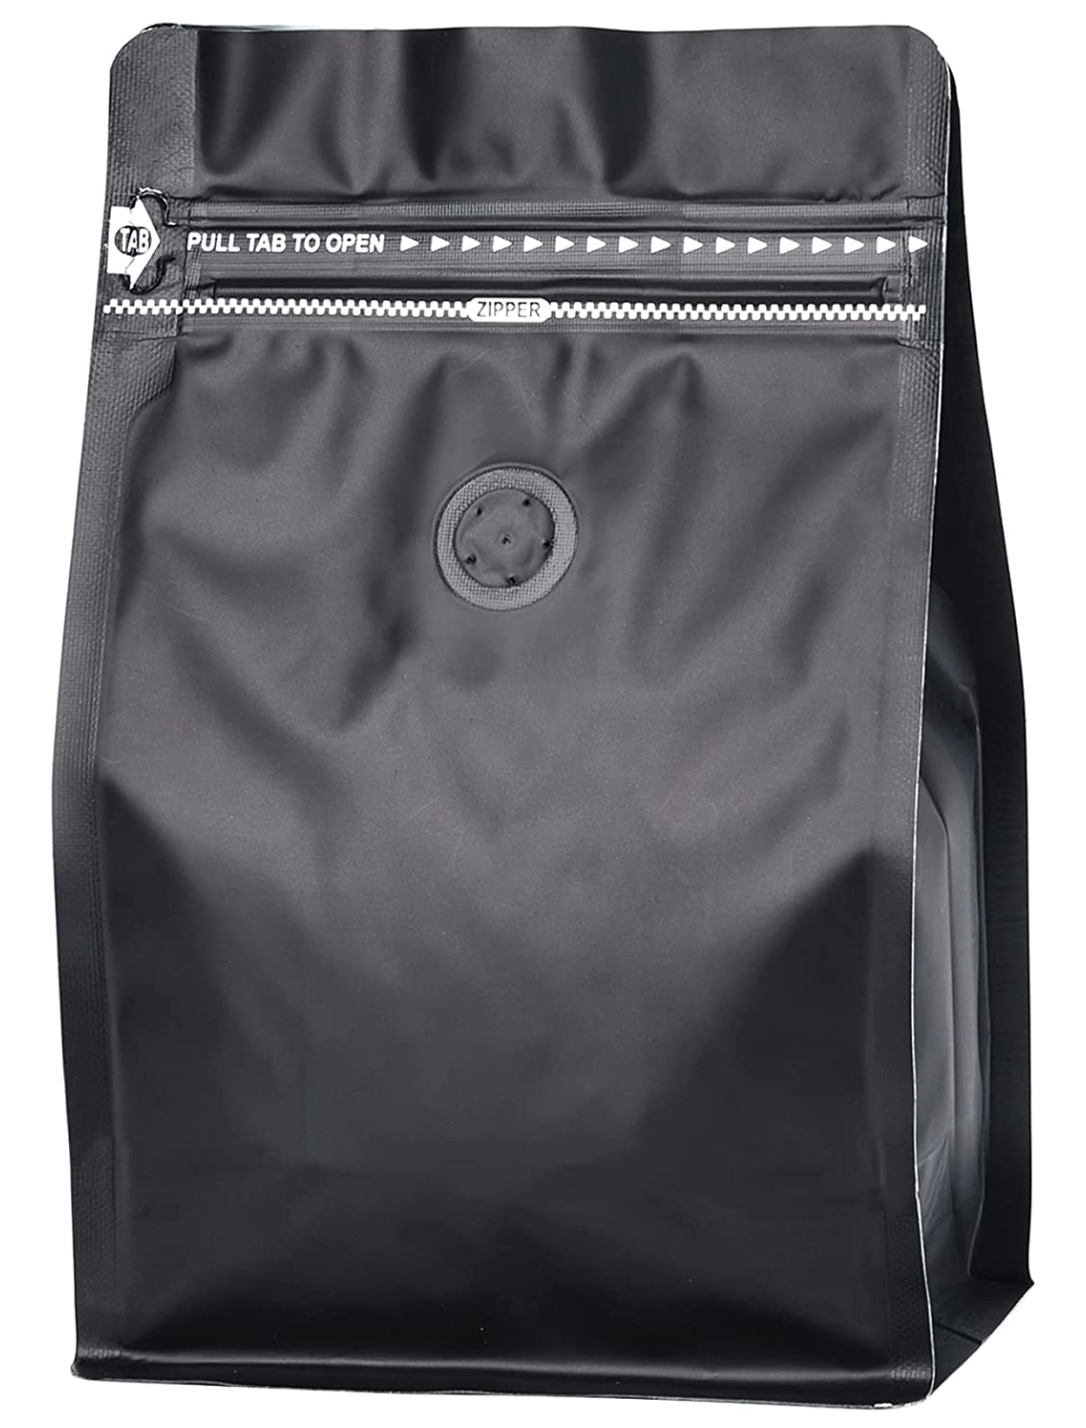
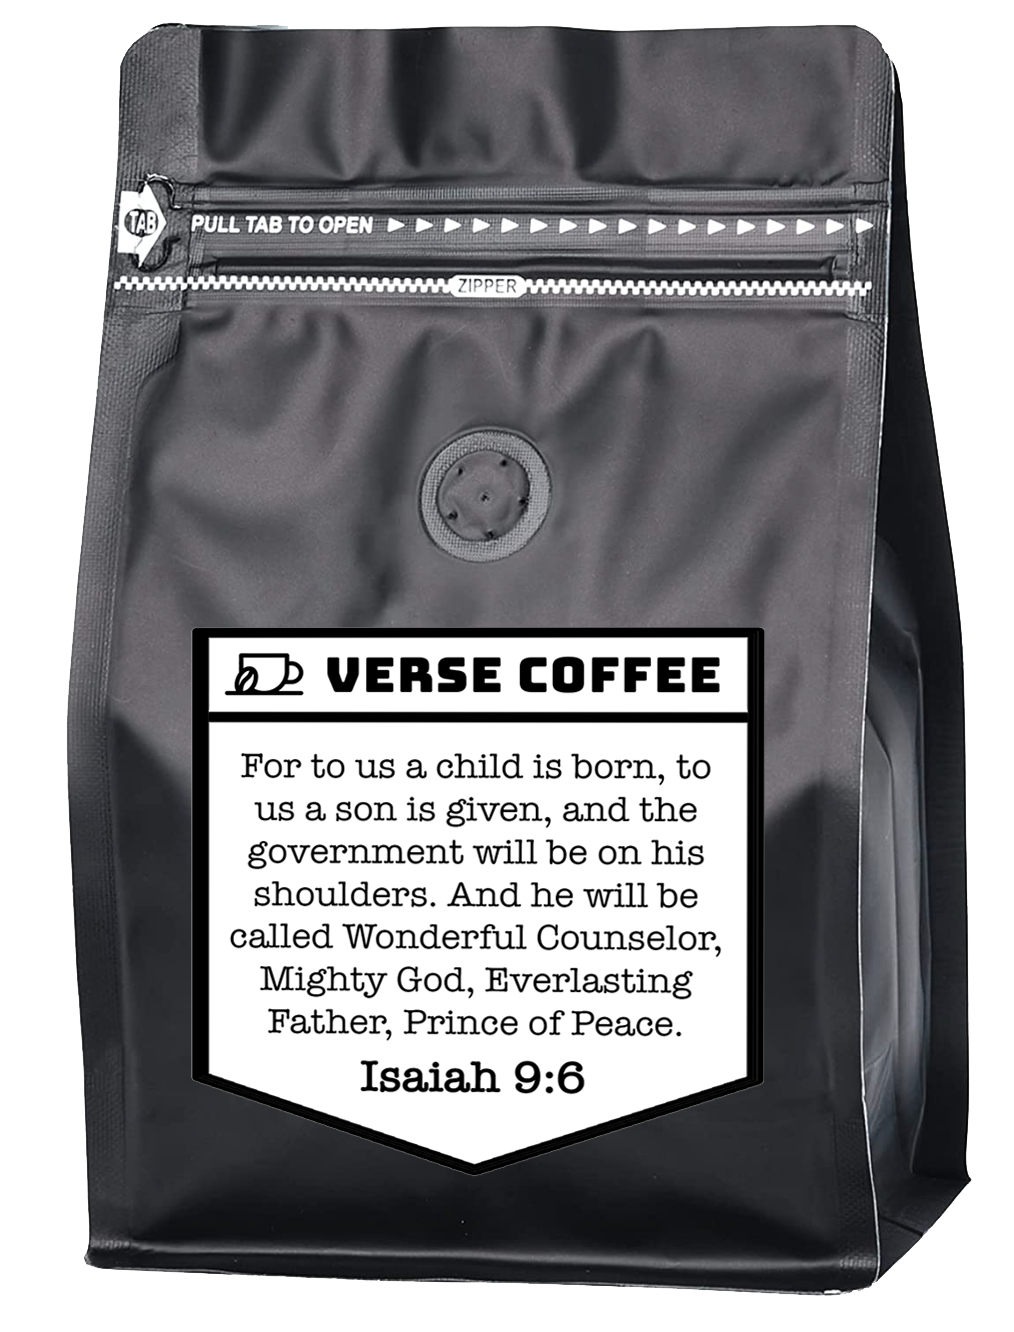
v

diff --git a/index.html b/index.html
@@ -44,9 +44,9 @@
                         <div class="row">
                            <div class="col-md-6">
                               <div class="taital_main">
-                                 <h4 class="banner_taital">Order Coffee</h4>
-                                 <div style="margin-right: 20px" class="book_bt"><a href="mailto: brandon.camerer@gmail.com">Free Coffee</a></div>
-                                 <div  class="book_bt"><a href="https://buy.stripe.com/4gw1874O63Opf729AA">Buy Coffee</a></div>
+                                 <img src="images/logo.png">
+                                 <div style="margin-right: 20px" class="book_bt"><a href="mailto: brandon.camerer@gmail.com?subject=I would like a bag of free coffee please!&body=1 bag of free coffee please!">Free Coffee</a></div>
+                                 <div  class="book_bt"><a href="https://buy.stripe.com/4gw1874O63Opf729AA" target="_blank">Buy Coffee</a></div>
                                  
                               </div>
                            </div>

diff --git a/css/style.css b/css/style.css
@@ -299,7 +299,7 @@ button {
     font-size: 16px;
     color: #ffffff;
     text-align: center;
-    background-color: #1438ed;
+    background-color: rgba(242, 12, 188, 0.2);
     border: 2px solid #ffffff;
     border-radius: 30px;
     padding: 9px 0px;
